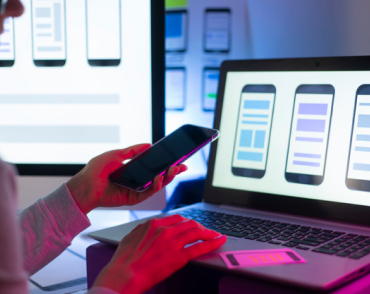
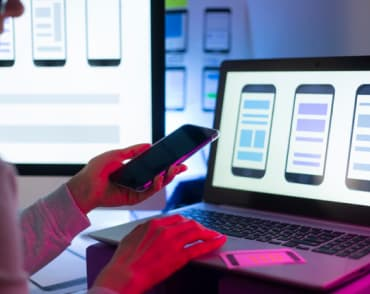
Добавляет оптимизацию всех фотографий и иконок
Оптимизированы фото, иконки.

diff --git a/css/styles.css b/css/styles.css
@@ -227,6 +227,7 @@ color: var(--primary-white-color);
 .feature-list .title {
     line-height: 1.4;
     text-transform: uppercase;
+    margin-bottom: 10px;
 }
 
 .feature-list p {
@@ -248,6 +249,35 @@ color: var(--primary-white-color);
 
 .item:not(:last-child) {
     margin-right: 30px;
+}
+
+.feature-list .item::before {
+    display: flex;
+    content: "";
+    height: 120px;
+    background-size: contain;
+    background-repeat: no-repeat;
+    background-position: center;
+    align-items: center;
+    margin-bottom: 30px;
+    margin-top: 0;
+    background-color: var(--secondary-bg-color);
+}
+
+.icon-antenna::before {
+ background-image: url("../images/icons-feature/antenna.svg");
+}
+
+.icon-clock::before {
+ background-image: url("../images/icons-feature/clock.svg");
+}
+
+.icon-diagram::before {
+ background-image: url("../images/icons-feature/diagram.svg");
+}
+
+.icon-astranaut::before {
+ background-image: url("../images/icons-feature/astronaut.svg");
 }
 
 .title {
@@ -394,6 +424,11 @@ margin-bottom: 0;
 
 }
 
+.portfolio-list .item:hover {
+box-shadow: 0px 1px 1px rgba(0, 0, 0, 0.12), 0px 4px 4px rgba(0, 0, 0, 0.06), 1px 4px 6px rgba(0, 0, 0, 0.16);
+}
+
+
 /* Button */
 .button {
     display: flex;
@@ -441,6 +476,9 @@ background-color:var(--accent-color);
     background-color: var(--accent-color);
 }
 
+.filter .button:hover {
+    box-shadow: 0px 3px 1px rgba(0, 0, 0, 0.1), 0px 1px 2px rgba(0, 0, 0, 0.08), 0px 2px 2px rgba(0, 0, 0, 0.12);
+}
 
 /* Footer */
 .footer {

diff --git a/index.html b/index.html
@@ -51,19 +51,19 @@
     <div class="container">
         <h2 class="visually-hidden">Наши преимущества</h2>
     <ul class="feature-list">
-        <li class="item">
+        <li class="item icon-antenna">
             <h3 class="title">Внимание к деталям</h3>
             <p>Идейные соображения, а также<br> начало повседневной работы по<br> формированию позиции.</p>
         </li>
-        <li class="item">
+        <li class="item icon-clock">
             <h3 class="title">Пунктуальность</h3>
             <p>Задача организации, в особенности<br> же рамки и место обучения кадров<br> влечет за собой.</p>
         </li>
-        <li class="item">
+        <li class="item icon-diagram">
             <h3 class="title">Планирование</h3>
             <p>Равным образом консультация с<br> широким активом в значительной<br> степени обуславливает.</p>
         </li>
-        <li class="item">
+        <li class="item icon-astranaut">
             <h3 class="title">Современные технологии</h3>
             <p>Значимость этих проблем настолько<br> очевидна, что реализация плановых<br> заданий.</p>
         </li>
